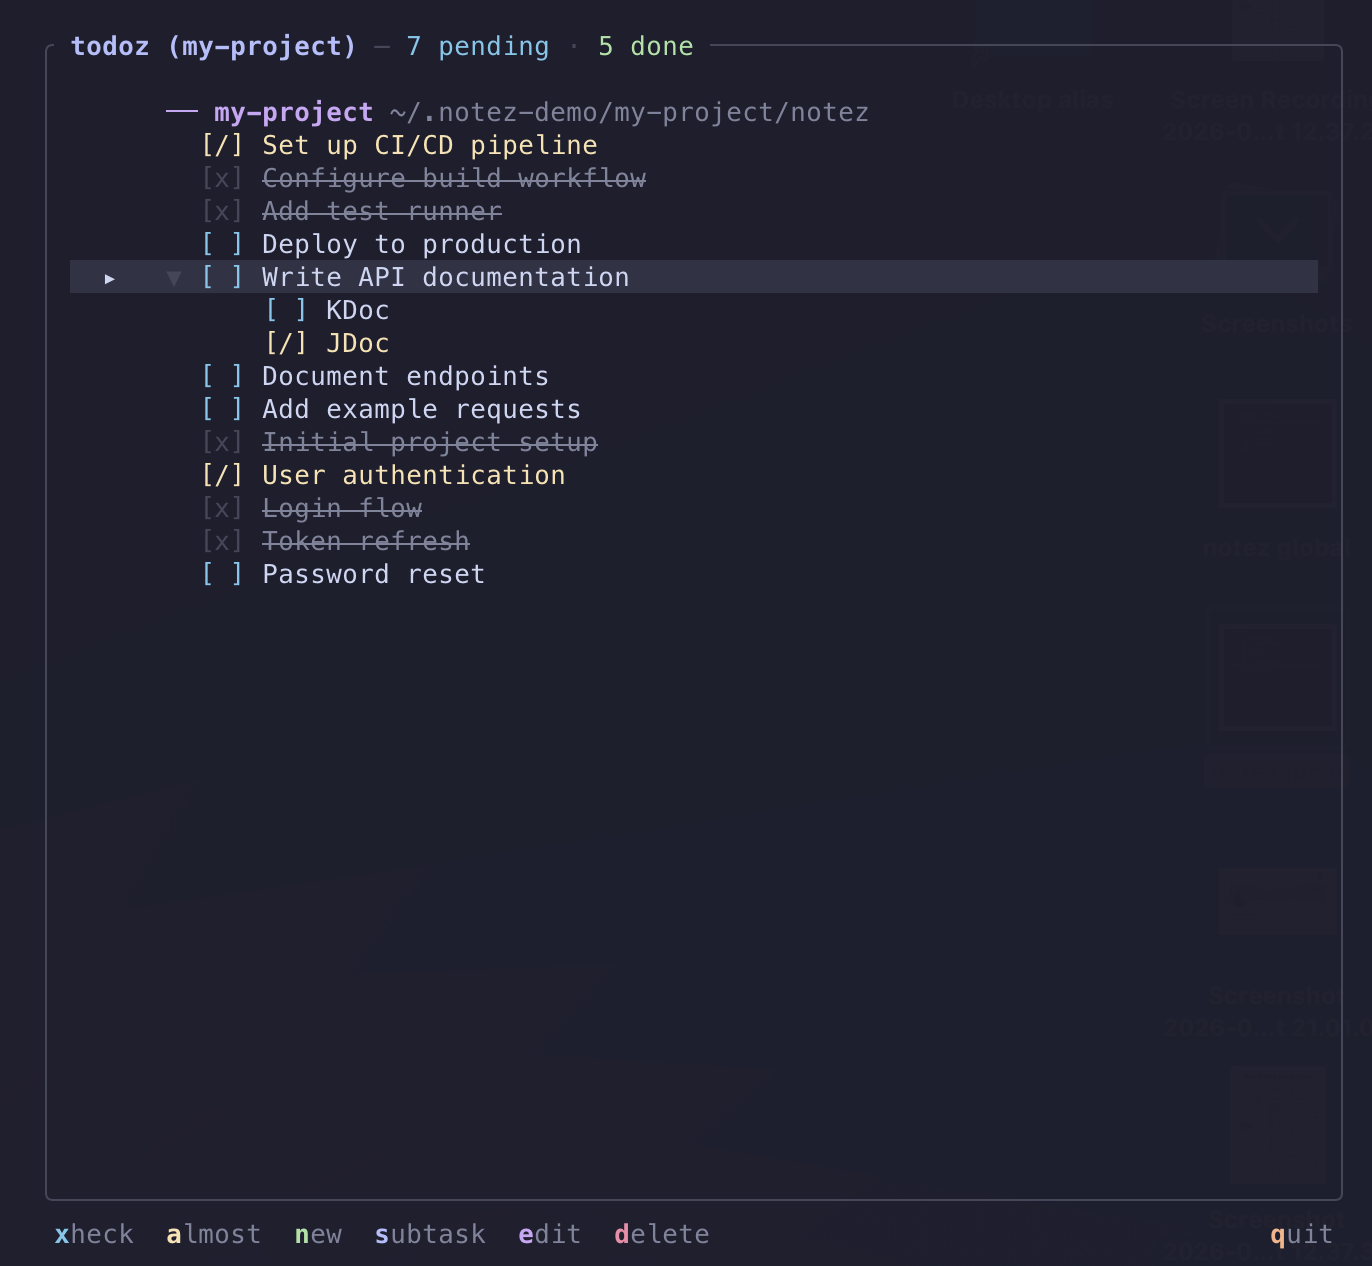
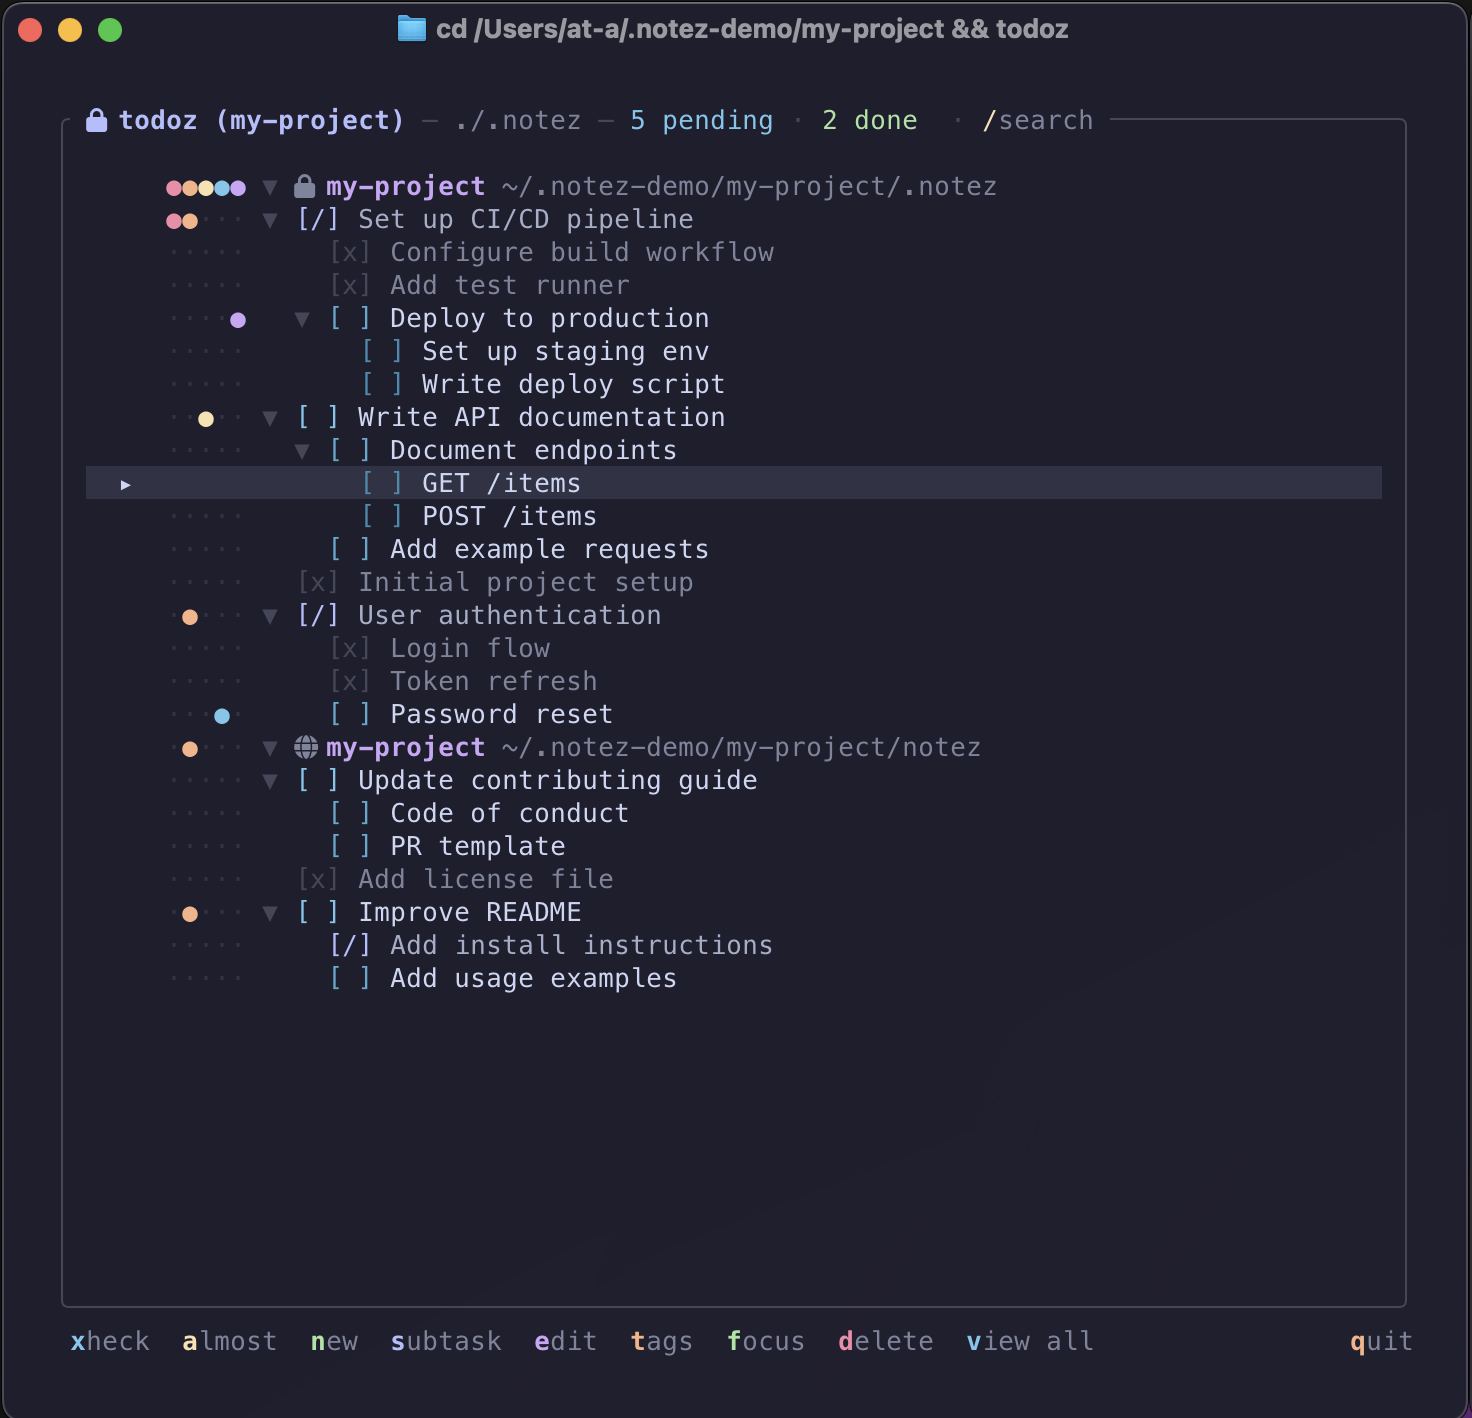
docs: update screenshots, fix demo indentation for nested subtasks

diff --git a/src/commands/demo.rs b/src/commands/demo.rs
@@ -3,7 +3,7 @@ use std::fs;
 use crate::colors::Colors;
 
 /// Create a mock notez directory structure for screenshots and demos.
-pub fn run_demo(view: Option<String>) {
+pub fn run_demo(_view: Option<String>) {
     let dir = dirs::home_dir().unwrap().join(".notez-demo");
 
     // Clean previous demo
@@ -11,16 +11,17 @@ pub fn run_demo(view: Option<String>) {
         fs::remove_dir_all(&dir).ok();
     }
 
-    // --- Project 1: my-project ---
-    let p1 = dir.join("my-project").join("notez");
-    let p1_quick = p1.join("00_quick-notes");
-    let p1_logs = p1.join("01_daily-logs");
-    let p1_research = p1.join("02_research");
-    let p1_api = p1.join("03_api-design");
+    // --- Project 1: my-project (private .notez + public notez) ---
+    let p1_private = dir.join("my-project").join(".notez");
+    let p1_public = dir.join("my-project").join("notez");
+    let p1_quick = p1_private.join("00_quick-notes");
+    let p1_logs = p1_private.join("01_daily-logs");
+    let p1_research = p1_private.join("02_research");
 
-    for d in [&p1_quick, &p1_logs, &p1_research, &p1_api] {
+    for d in [&p1_quick, &p1_logs, &p1_research] {
         fs::create_dir_all(d).unwrap();
     }
+    fs::create_dir_all(&p1_public.join("00_quick-notes")).unwrap();
 
     fs::write(p1_quick.join("2026-04-01-project-goals.md"),
         "# project-goals\n\nDate: 2026-04-01\n\nDefine the core features and MVP scope.\n").unwrap();
@@ -36,26 +37,24 @@ pub fn run_demo(view: Option<String>) {
 
     fs::write(p1_research.join("2026-04-01-database-comparison.md"),
         "# database-comparison\n\nDate: 2026-04-01\n\nPostgres vs SQLite for embedded use.\n").unwrap();
-    fs::write(p1_api.join("2026-04-02-endpoints.md"),
-        "# endpoints\n\nDate: 2026-04-02\n\nGET /items, POST /items, DELETE /items/:id\n").unwrap();
 
-    fs::write(p1.join("TODO.md"),
-        "# TODO\n\n\
-- [/] Set up CI/CD pipeline\n\
-  - [x] Configure build workflow\n\
-  - [x] Add test runner\n\
-  - [ ] Deploy to production\n\
-- [ ] Write API documentation\n\
-  - [ ] Document endpoints\n\
-  - [ ] Add example requests\n\
-- [x] Initial project setup\n\
-- [/] User authentication\n\
-  - [x] Login flow\n\
-  - [x] Token refresh\n\
-  - [ ] Password reset\n").unwrap();
+    // Private TODO with tags and nested subtasks
+    fs::write(p1_private.join("TODO.md"),
+        "# TODO\n\n- [/] Set up CI/CD pipeline #important #prio\n  - [x] Configure build workflow\n  - [x] Add test runner\n  - [ ] Deploy to production #blocked\n    - [ ] Set up staging env\n    - [ ] Write deploy script\n- [ ] Write API documentation #longterm\n  - [ ] Document endpoints\n    - [ ] GET /items\n    - [ ] POST /items\n  - [ ] Add example requests\n- [x] Initial project setup\n- [/] User authentication #prio\n  - [x] Login flow\n  - [x] Token refresh\n  - [ ] Password reset #idea\n").unwrap();
 
-    // --- Project 2: webapp ---
-    let p2 = dir.join("webapp").join("notez");
+    // Public TODO with subtasks
+    fs::write(p1_public.join("TODO.md"),
+        "# TODO\n\n- [ ] Update contributing guide\n  - [ ] Code of conduct\n  - [ ] PR template\n- [x] Add license file\n- [ ] Improve README #prio\n  - [/] Add install instructions\n  - [ ] Add usage examples\n").unwrap();
+
+    fs::write(p1_public.join("00_quick-notes").join("2026-04-03-onboarding.md"),
+        "# onboarding\n\nDate: 2026-04-03\n\nSteps for new contributors.\n").unwrap();
+
+    // Tags for tree
+    fs::write(p1_private.join(".tags"),
+        "02_research:4\n").unwrap(); // idea flag on research dir
+
+    // --- Project 2: webapp (private only) ---
+    let p2 = dir.join("webapp").join(".notez");
     let p2_quick = p2.join("00_quick-notes");
     fs::create_dir_all(&p2_quick).unwrap();
 
@@ -63,15 +62,7 @@ pub fn run_demo(view: Option<String>) {
         "# design-system\n\nDate: 2026-04-02\n\nComponent library with Tailwind.\n").unwrap();
 
     fs::write(p2.join("TODO.md"),
-        "# TODO\n\n\
-- [ ] Design system components\n\
-  - [x] Button variants\n\
-  - [ ] Form inputs\n\
-  - [ ] Modal dialogs\n\
-- [/] Landing page\n\
-  - [x] Hero section\n\
-  - [ ] Pricing table\n\
-- [ ] Dark mode support\n").unwrap();
+        "# TODO\n\n- [ ] Design system components #idea\n  - [x] Button variants\n  - [ ] Form inputs\n  - [ ] Modal dialogs\n- [/] Landing page #prio\n  - [x] Hero section\n  - [ ] Pricing table\n- [ ] Dark mode support #longterm\n").unwrap();
 
     // --- Global notez home (simulated) ---
     let home = dir.join("notez-home");
@@ -80,10 +71,10 @@ pub fn run_demo(view: Option<String>) {
     fs::create_dir_all(&home_quick).unwrap();
     fs::create_dir_all(&home_logs).unwrap();
 
-    // Symlink projects into home
+    // Symlink private project dirs into home
     let home_p1 = home.join("02_my-project");
     let home_p2 = home.join("03_webapp");
-    std::os::unix::fs::symlink(&p1, &home_p1).ok();
+    std::os::unix::fs::symlink(&p1_private, &home_p1).ok();
     std::os::unix::fs::symlink(&p2, &home_p2).ok();
 
     fs::write(home_quick.join("2026-04-01-personal-ideas.md"),
@@ -93,13 +84,9 @@ pub fn run_demo(view: Option<String>) {
         "# Daily Log - 2026-04-03\n\n08:00 - Morning review\n12:00 - Lunch walk\n").unwrap();
 
     fs::write(home.join("TODO.md"),
-        "# TODO\n\n\
-- [ ] Review quarterly goals\n\
-- [x] Update dotfiles\n\
-- [ ] Read Rust book chapter 12\n").unwrap();
+        "# TODO\n\n- [ ] Review quarterly goals #important\n- [x] Update dotfiles\n- [ ] Read Rust book chapter 12 #longterm\n").unwrap();
 
     // Write a temporary config pointing to the demo home
-    // XDG_CONFIG_HOME looks for $XDG_CONFIG_HOME/notez/config
     let demo_config_dir = dir.join("notez");
     fs::create_dir_all(&demo_config_dir).unwrap();
     let demo_config = demo_config_dir.join("config");
@@ -109,8 +96,17 @@ pub fn run_demo(view: Option<String>) {
     );
     fs::write(&demo_config, config_content).unwrap();
 
+    // Project mapping for global view to find public notes
+    let projects_file = demo_config_dir.join("projects");
+    fs::write(&projects_file, format!(
+        "my-project={}\nwebapp={}\n",
+        dir.join("my-project").to_string_lossy(),
+        dir.join("webapp").to_string_lossy(),
+    )).unwrap();
+
     let colors = Colors::new();
     let cd_p1 = format!("cd {}", dir.join("my-project").to_string_lossy());
+    let xdg = format!("XDG_CONFIG_HOME={}", dir.to_string_lossy());
 
     println!();
     println!(
@@ -118,37 +114,24 @@ pub fn run_demo(view: Option<String>) {
         colors.green.apply_to("✓")
     );
     println!();
-    println!("  {}", colors.mauve.apply_to("Project view"));
+    println!("  {}", colors.mauve.apply_to("Local view (project)"));
     println!(
         "    {}",
         colors.overlay.apply_to(format!("{} && notez tree", cd_p1))
     );
     println!(
         "    {}",
-        colors.overlay.apply_to(format!("{} && notez todo", cd_p1))
+        colors.overlay.apply_to(format!("{} && todoz", cd_p1))
     );
     println!();
     println!("  {}", colors.mauve.apply_to("Global view (all projects)"));
     println!(
         "    {}",
-        colors.overlay.apply_to(format!(
-            "XDG_CONFIG_HOME={} notez -g tree",
-            dir.to_string_lossy()
-        ))
+        colors.overlay.apply_to(format!("{} {} notez -g tree", cd_p1, xdg))
     );
     println!(
         "    {}",
-        colors.overlay.apply_to(format!(
-            "XDG_CONFIG_HOME={} notez -g todo",
-            dir.to_string_lossy()
-        ))
-    );
-    println!(
-        "    {}",
-        colors.overlay.apply_to(format!(
-            "XDG_CONFIG_HOME={} todoz -g",
-            dir.to_string_lossy()
-        ))
+        colors.overlay.apply_to(format!("{} {} todoz -g", cd_p1, xdg))
     );
     println!();
     println!("  {}", colors.mauve.apply_to("Help"));
